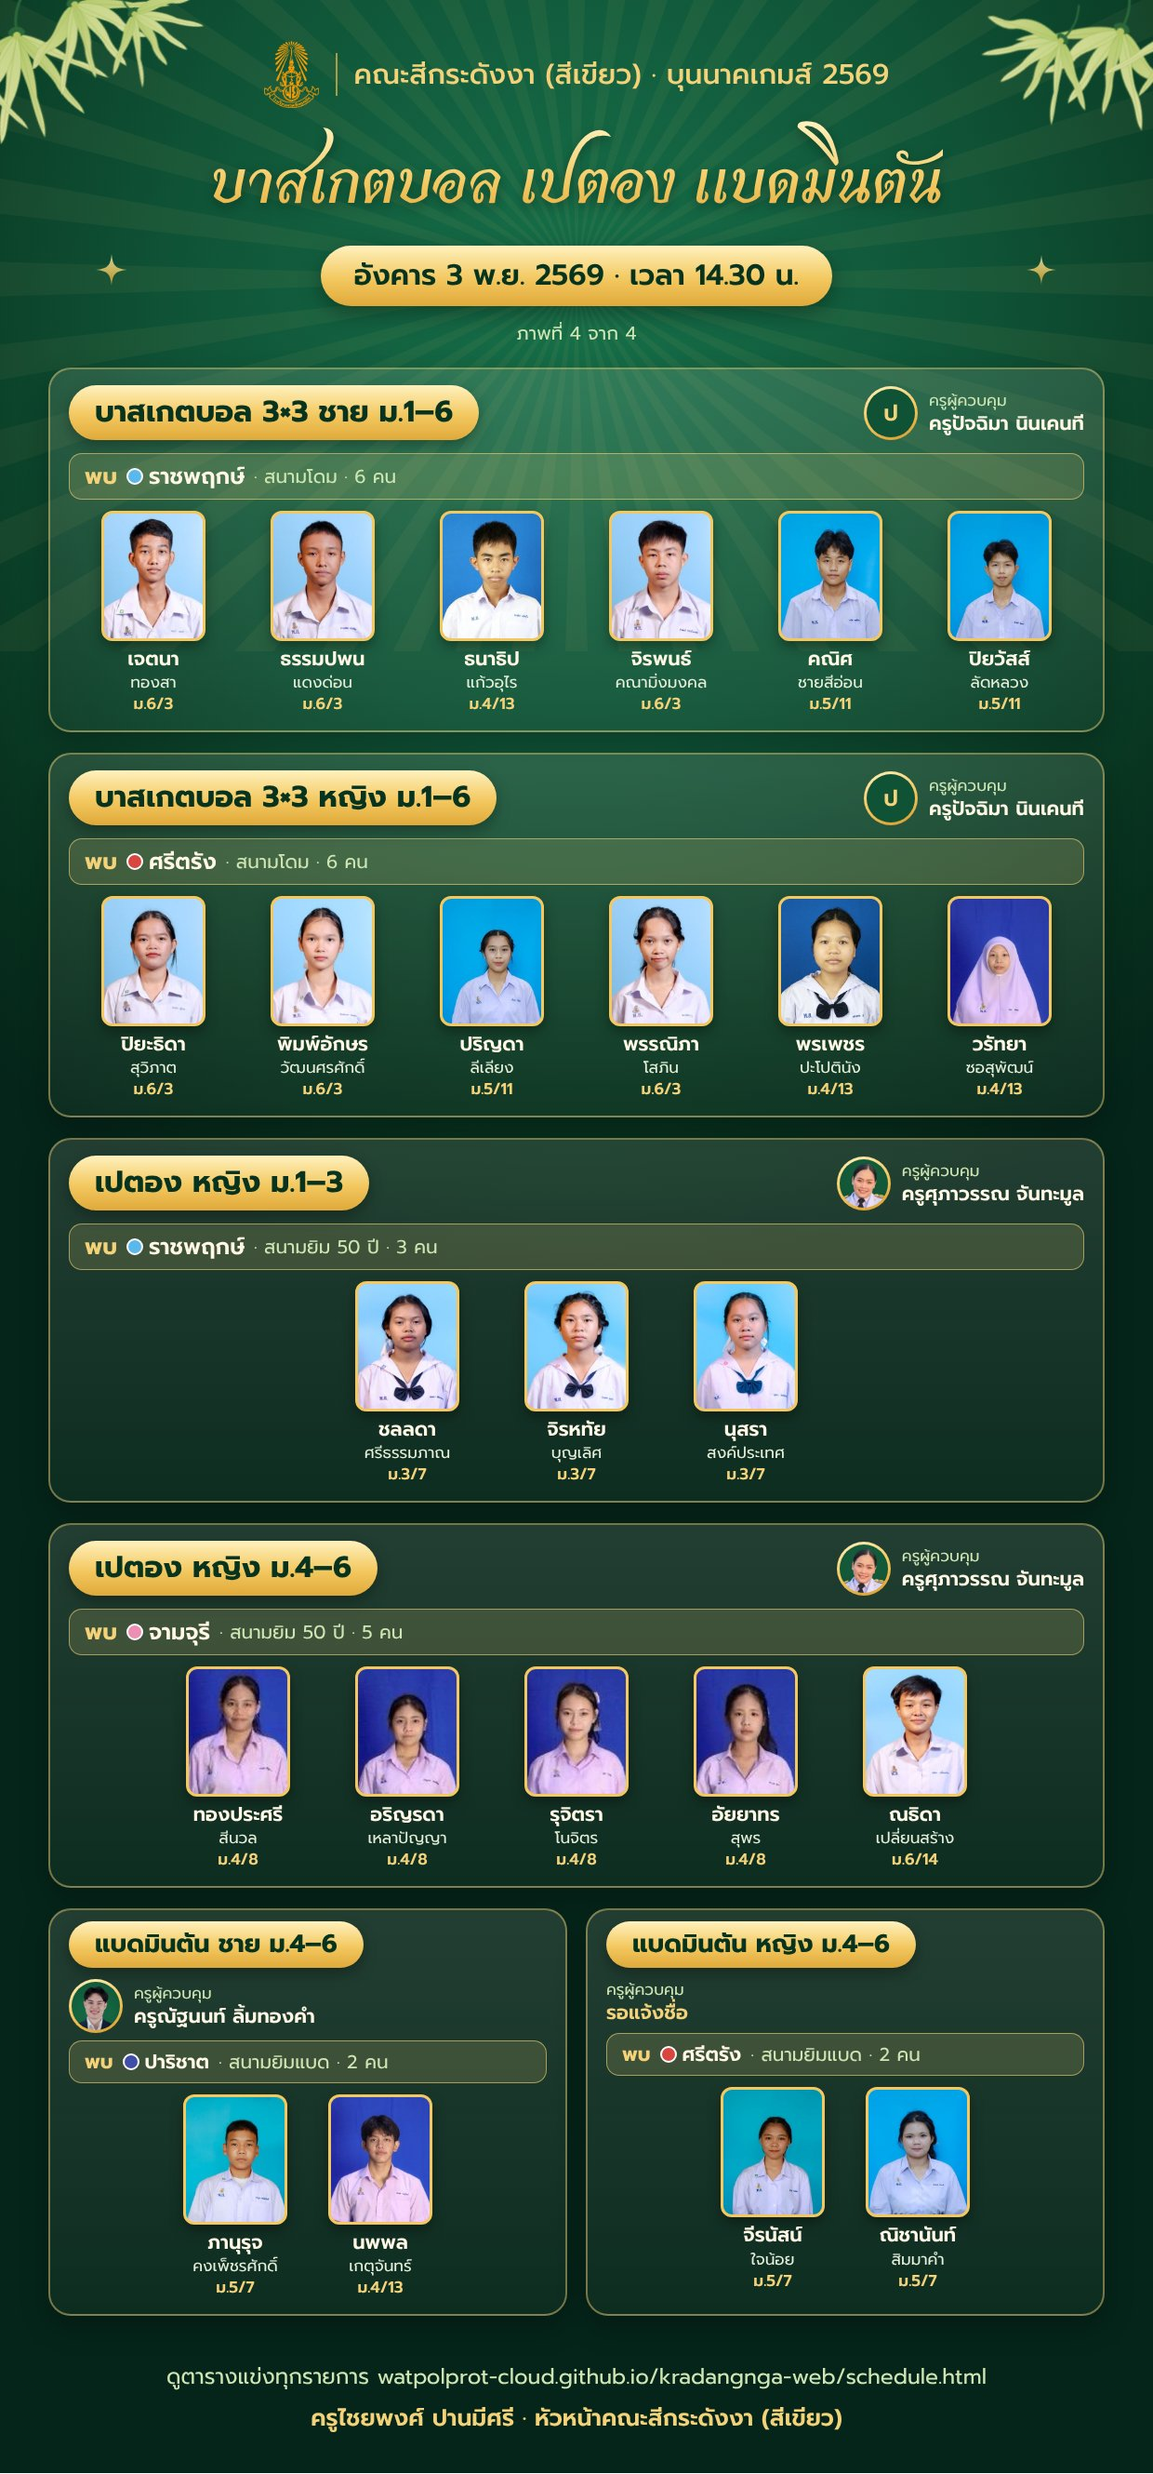
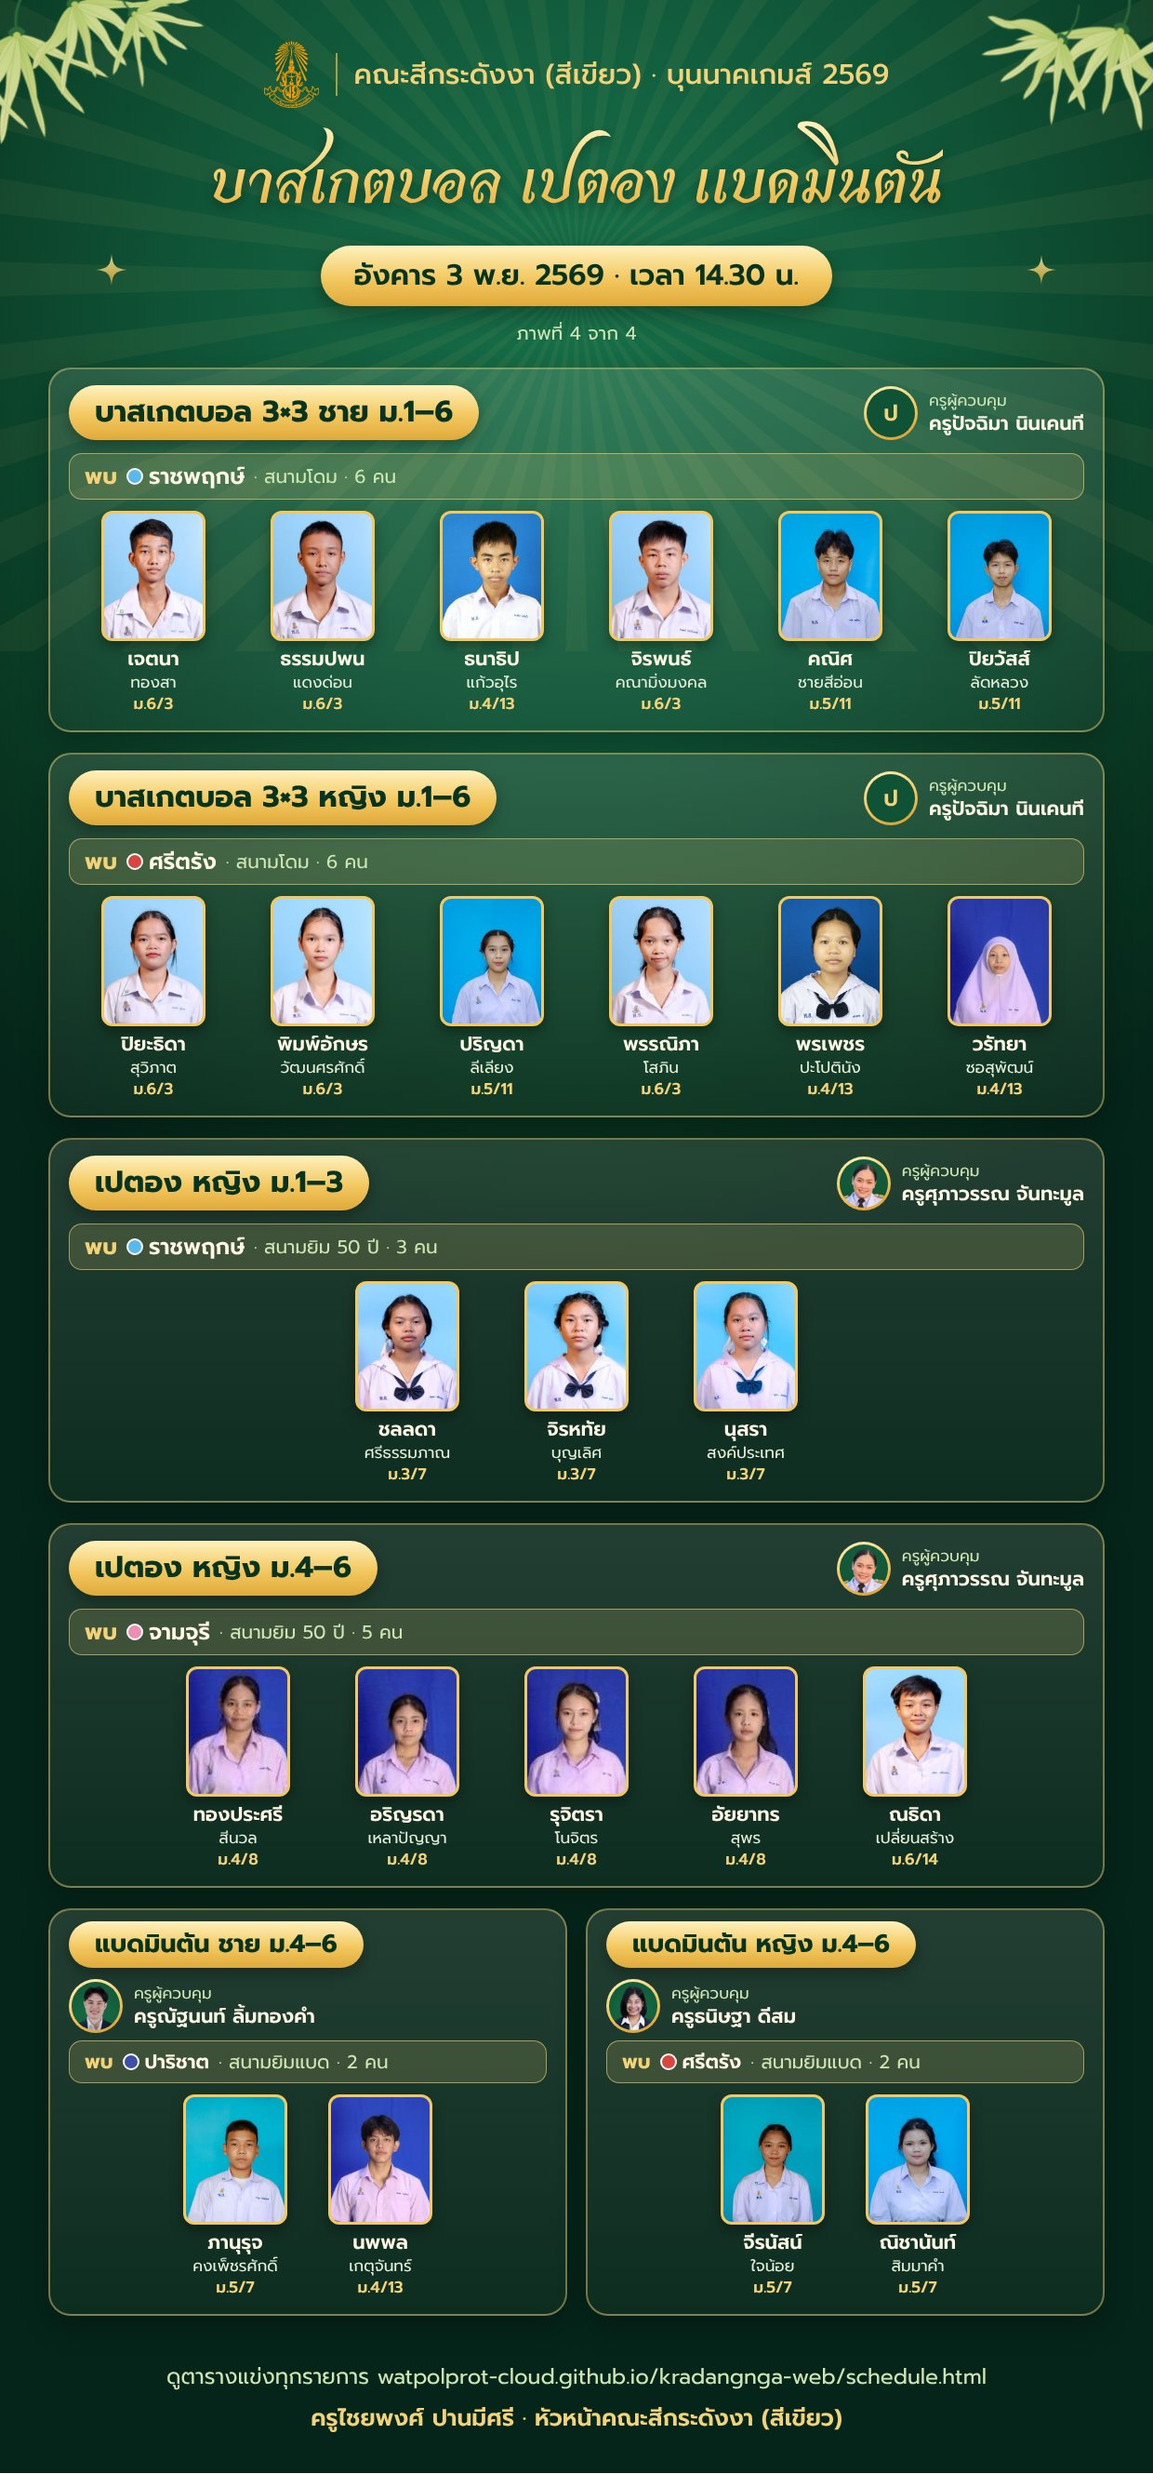
ครูผู้ควบคุมแบดมินตันหญิง ม.4–6 (ครูธนิษฐา) + ภาพ info 3 พ.ย. ฉบับแก้ไข 2
Claude-Session: https://claude.ai/code/session_01LjaNA52Jk9fgkbivbZznUW

Changed region(s): [[0.521, 0.7804, 0.95, 0.9364]]

diff --git a/data/news.js b/data/news.js
@@ -8,7 +8,7 @@ window.KD = window.KD || {};
 KD.news = [
   { date: "2026-11-02", type: "บุนนาคเกมส์", title: "พรุ่งนี้ 3 พ.ย. สีเขียวลงแข่ง 10 รายการ วอลเลย์บอล บาสเกตบอล 3×3 แชร์บอล เปตอง แบดมินตัน · พุธ 4 พ.ย. แข่งต่ออีก 8 รายการ", image: "news_match_2569-11-03.jpg",
     body: "ครูไชยพงศ์ ปานมีศรี หัวหน้าคณะสีกระดังงา (สีเขียว) แจ้งนักกีฬาและครูผู้ควบคุม พรุ่งนี้วันอังคารที่ 3 พฤศจิกายน 2569 เวลา 14.30 น. สีเขียวลงแข่งกีฬาภายในบุนนาคเกมส์ 2569 คู่ที่ 1 รวม 10 รายการ ที่โดม ได้แก่ วอลเลย์บอลชาย ม.1–6 พบจามจุรี วอลเลย์บอลหญิง ม.1–6 พบจามจุรี บาสเกตบอล 3×3 ชาย พบราชพฤกษ์ บาสเกตบอล 3×3 หญิง พบศรีตรัง แชร์บอลชาย ม.1–2 พบจามจุรี แชร์บอลหญิง ม.1–2 พบราชพฤกษ์ ที่ยิม 50 ปี เปตองหญิง ม.1–3 พบราชพฤกษ์ เปตองหญิง ม.4–6 พบจามจุรี และที่ยิมแบด แบดมินตันชาย ม.4–6 พบปาริชาต แบดมินตันหญิง ม.4–6 พบศรีตรัง ทีมที่ชนะได้ไปแข่งคู่ที่ 3 วันพุธที่ 11 พ.ย. 2569 ส่วนวันพุธที่ 4 พฤศจิกายน 2569 เวลา 14.30 น. แข่งต่ออีก 8 รายการ ได้แก่ ตะกร้อชาย ม.1–3 และ ม.4–6 เทเบิลเทนนิสชาย ม.4–6 และหญิง ม.1–3 เปตองชาย ม.1–3 และ ม.4–6 E-sport ROV และ Mobile Legends นักกีฬาเตรียมชุดกีฬาให้พร้อม รายงานตัวกับครูผู้ควบคุมที่สนามก่อนเวลาแข่ง ครูผู้ควบคุมพิมพ์ทะเบียนนักกีฬาที่มีลายเซ็นแม่สีจากหน้าทะเบียนนักกีฬาบนเว็บนำไปด้วย ดูรูปนักกีฬาทุกรายการได้ในภาพ info ทั้ง 4 ภาพ",
-    table: { summary: "ดูรายการแข่ง 3 และ 4 พ.ย. ครบทุกรายการ", head: ["วัน", "รายการ", "พบ", "สนาม", "ครูผู้ควบคุม", "นักกีฬา"], rows: [["อ. 3 พ.ย.", "วอลเลย์บอล ชาย ม.1–6", "จามจุรี (สีชมพู)", "โดม", "ครูมาริษา ปรัชชัยกูล และ ครูมนตรี ฉิมเจริญ", "12"], ["อ. 3 พ.ย.", "วอลเลย์บอล หญิง ม.1–6", "จามจุรี (สีชมพู)", "โดม", "ครูมาริษา ปรัชชัยกูล และ ครูมนตรี ฉิมเจริญ", "12"], ["อ. 3 พ.ย.", "บาสเกตบอล 3×3 ชาย ม.1–6", "ราชพฤกษ์ (สีฟ้า)", "โดม", "ครูปัจฉิมา นินเคนที", "6"], ["อ. 3 พ.ย.", "บาสเกตบอล 3×3 หญิง ม.1–6", "ศรีตรัง (สีแดง)", "โดม", "ครูปัจฉิมา นินเคนที", "6"], ["อ. 3 พ.ย.", "แชร์บอล ชาย ม.1–2", "จามจุรี (สีชมพู)", "โดม", "ครูนันทวัน ศรีทอง", "12"], ["อ. 3 พ.ย.", "แชร์บอล หญิง ม.1–2", "ราชพฤกษ์ (สีฟ้า)", "โดม", "ครูศักดิ์ชัย โชคบัณฑิต", "12"], ["อ. 3 พ.ย.", "เปตอง หญิง ม.1–3", "ราชพฤกษ์ (สีฟ้า)", "ยิม 50 ปี", "ครูศุภาวรรณ จันทะมูล", "3"], ["อ. 3 พ.ย.", "เปตอง หญิง ม.4–6", "จามจุรี (สีชมพู)", "ยิม 50 ปี", "ครูศุภาวรรณ จันทะมูล", "5"], ["อ. 3 พ.ย.", "แบดมินตัน ชาย ม.4–6", "ปาริชาต (สีน้ำเงิน)", "ยิมแบด", "ครูณัฐนนท์ ลิ้มทองคำ", "2"], ["อ. 3 พ.ย.", "แบดมินตัน หญิง ม.4–6", "ศรีตรัง (สีแดง)", "ยิมแบด", "รอแจ้ง", "2"], ["พ. 4 พ.ย.", "ตะกร้อ ชาย ม.1–3", "ศรีตรัง (สีแดง)", "โดม", "ครูกาญจณ์สุดา รัตนพร", "5"], ["พ. 4 พ.ย.", "ตะกร้อ ชาย ม.4–6", "ราชพฤกษ์ (สีฟ้า)", "โดม", "ครูลลิตา อินไชยา", "5"], ["พ. 4 พ.ย.", "เทเบิลเทนนิส ชาย ม.4–6", "จามจุรี (สีชมพู)", "ยิมแบด", "ครูมนัสวี อ้นสนกราน", "1"], ["พ. 4 พ.ย.", "เทเบิลเทนนิส หญิง ม.1–3", "จามจุรี (สีชมพู)", "ยิมแบด", "รอแจ้ง", "1"], ["พ. 4 พ.ย.", "เปตอง ชาย ม.1–3", "จามจุรี (สีชมพู)", "ยิม 50 ปี", "ครูศุภาวรรณ จันทะมูล", "5"], ["พ. 4 พ.ย.", "เปตอง ชาย ม.4–6", "ราชพฤกษ์ (สีฟ้า)", "ยิม 50 ปี", "ครูจุฬาลักษณ์ กุลบุตรดี", "4"], ["พ. 4 พ.ย.", "E-sport ROV", "ศรีตรัง (สีแดง)", "ห้องปฏิบัติการคอมพิวเตอร์ 1", "ครูภวภัค จินนุกูล", "7"], ["พ. 4 พ.ย.", "E-sport Mobile Legends", "จามจุรี (สีชมพู)", "ห้องปฏิบัติการคอมพิวเตอร์ 1", "ครูธวัชชัย พาลาศรี", "6"]] },
+    table: { summary: "ดูรายการแข่ง 3 และ 4 พ.ย. ครบทุกรายการ", head: ["วัน", "รายการ", "พบ", "สนาม", "ครูผู้ควบคุม", "นักกีฬา"], rows: [["อ. 3 พ.ย.", "วอลเลย์บอล ชาย ม.1–6", "จามจุรี (สีชมพู)", "โดม", "ครูมาริษา ปรัชชัยกูล และ ครูมนตรี ฉิมเจริญ", "12"], ["อ. 3 พ.ย.", "วอลเลย์บอล หญิง ม.1–6", "จามจุรี (สีชมพู)", "โดม", "ครูมาริษา ปรัชชัยกูล และ ครูมนตรี ฉิมเจริญ", "12"], ["อ. 3 พ.ย.", "บาสเกตบอล 3×3 ชาย ม.1–6", "ราชพฤกษ์ (สีฟ้า)", "โดม", "ครูปัจฉิมา นินเคนที", "6"], ["อ. 3 พ.ย.", "บาสเกตบอล 3×3 หญิง ม.1–6", "ศรีตรัง (สีแดง)", "โดม", "ครูปัจฉิมา นินเคนที", "6"], ["อ. 3 พ.ย.", "แชร์บอล ชาย ม.1–2", "จามจุรี (สีชมพู)", "โดม", "ครูนันทวัน ศรีทอง", "12"], ["อ. 3 พ.ย.", "แชร์บอล หญิง ม.1–2", "ราชพฤกษ์ (สีฟ้า)", "โดม", "ครูศักดิ์ชัย โชคบัณฑิต", "12"], ["อ. 3 พ.ย.", "เปตอง หญิง ม.1–3", "ราชพฤกษ์ (สีฟ้า)", "ยิม 50 ปี", "ครูศุภาวรรณ จันทะมูล", "3"], ["อ. 3 พ.ย.", "เปตอง หญิง ม.4–6", "จามจุรี (สีชมพู)", "ยิม 50 ปี", "ครูศุภาวรรณ จันทะมูล", "5"], ["อ. 3 พ.ย.", "แบดมินตัน ชาย ม.4–6", "ปาริชาต (สีน้ำเงิน)", "ยิมแบด", "ครูณัฐนนท์ ลิ้มทองคำ", "2"], ["อ. 3 พ.ย.", "แบดมินตัน หญิง ม.4–6", "ศรีตรัง (สีแดง)", "ยิมแบด", "ครูธนิษฐา ดีสม", "2"], ["พ. 4 พ.ย.", "ตะกร้อ ชาย ม.1–3", "ศรีตรัง (สีแดง)", "โดม", "ครูกาญจณ์สุดา รัตนพร", "5"], ["พ. 4 พ.ย.", "ตะกร้อ ชาย ม.4–6", "ราชพฤกษ์ (สีฟ้า)", "โดม", "ครูลลิตา อินไชยา", "5"], ["พ. 4 พ.ย.", "เทเบิลเทนนิส ชาย ม.4–6", "จามจุรี (สีชมพู)", "ยิมแบด", "ครูมนัสวี อ้นสนกราน", "1"], ["พ. 4 พ.ย.", "เทเบิลเทนนิส หญิง ม.1–3", "จามจุรี (สีชมพู)", "ยิมแบด", "รอแจ้ง", "1"], ["พ. 4 พ.ย.", "เปตอง ชาย ม.1–3", "จามจุรี (สีชมพู)", "ยิม 50 ปี", "ครูศุภาวรรณ จันทะมูล", "5"], ["พ. 4 พ.ย.", "เปตอง ชาย ม.4–6", "ราชพฤกษ์ (สีฟ้า)", "ยิม 50 ปี", "ครูจุฬาลักษณ์ กุลบุตรดี", "4"], ["พ. 4 พ.ย.", "E-sport ROV", "ศรีตรัง (สีแดง)", "ห้องปฏิบัติการคอมพิวเตอร์ 1", "ครูภวภัค จินนุกูล", "7"], ["พ. 4 พ.ย.", "E-sport Mobile Legends", "จามจุรี (สีชมพู)", "ห้องปฏิบัติการคอมพิวเตอร์ 1", "ครูธวัชชัย พาลาศรี", "6"]] },
     link: "assets/img/gallery/info_match_2569-11-03_1.jpg", linkText: "เปิดภาพ info รายการแข่ง 3 พ.ย. (ภาพรวม)", link2: "schedule.html", linkText2: "ดูตารางแข่งทุกรายการ" },
   { date: "2026-11-02", type: "บุนนาคเกมส์", title: "ขอบคุณและยินดีด้วย สีเขียวได้อันดับ 1 การเข้าแถวคณะสี วันจันทร์ที่ 2 พ.ย. 2569 ร่วมกับสีฟ้า", image: "news_lineup_result_2569-11-02_v2.jpg",
     body: "โรงเรียนประกาศผลการเข้าแถวคณะสี ประจำวันจันทร์ที่ 2 พฤศจิกายน 2569 คณะสีกระดังงา (สีเขียว) ได้อันดับ 1 ร่วมกับราชพฤกษ์ (สีฟ้า) อันดับ 2 ศรีตรัง (สีแดง) และอันดับ 3 ปาริชาติ (สีน้ำเงิน) กับจามจุรี (สีชมพู) ครูไชยพงศ์ ปานมีศรี หัวหน้าคณะสี ขอบคุณครูที่ปรึกษาทุกห้องที่ช่วยกำชับและดูแลแถว ครูเวรตรวจแถวที่มาทำหน้าที่ตั้งแต่เช้า และขอแสดงความยินดีกับนักเรียนสีเขียวทุกคนที่มาตรงเวลา นั่งแถวอย่างมีวินัย ร้องเพลงชาติพร้อมกัน และช่วยกันรักษาความสะอาด ขอให้รักษามาตรฐานนี้ไว้ทุกเช้า นั่งพร้อมในแถวภายใน 07.55 น. ไม่คุย ไม่กิน ร้องเพลงชาติ และไม่ทิ้งขยะ เพื่อคว้ารางวัลถ้วยวินัยบุนนาคเกมส์ ครั้งที่ 77 ไปด้วยกัน",

diff --git a/data/coaches.js b/data/coaches.js
@@ -1,4 +1,4 @@
-// ครูคณะสีกระดังงาผู้ควบคุมนักกีฬา บุนนาคเกมส์ 2569 (ข้อมูลจากพี่ต้น 22 ต.ค. 2569 · เพิ่มครูผู้ควบคุม Mobile Legends 26 ต.ค. 2569 · วันแข่งปรับตามตารางแข่งฉบับล่าสุด 2 พ.ย. 2569 · ครูผู้ควบคุมบาส 3×3 หญิง และเปตองหญิง 2 รุ่น จากพี่ต้น 2 พ.ย. 2569)
+// ครูคณะสีกระดังงาผู้ควบคุมนักกีฬา บุนนาคเกมส์ 2569 (ข้อมูลจากพี่ต้น 22 ต.ค. 2569 · เพิ่มครูผู้ควบคุม Mobile Legends 26 ต.ค. 2569 · วันแข่งปรับตามตารางแข่งฉบับล่าสุด 2 พ.ย. 2569 · ครูผู้ควบคุมบาส 3×3 หญิง เปตองหญิง 2 รุ่น และแบดมินตันหญิง ม.4–6 จากพี่ต้น 2 พ.ย. 2569)
 // coaches: รายการแข่งขัน -> ครูสีเขียวที่ดูแล (pending = จำนวนครูที่ยังรอประกาศชื่อ) · ชื่อครูต้องตรงกับ data/teachers.js เพื่อดึงรูป
 window.KD = window.KD || {};
 KD.coachMeta = {
@@ -95,5 +95,5 @@ KD.coaches = [
   {"no": 11, "sport": "แบดมินตัน", "div": "ชาย ม.1–3", "teachers": ["ครูธนิษฐา ดีสม"], "pending": 0},
   {"no": 11, "sport": "แบดมินตัน", "div": "หญิง ม.1–3", "teachers": [], "pending": 0},
   {"no": 11, "sport": "แบดมินตัน", "div": "ชาย ม.4–6", "teachers": ["ครูณัฐนนท์ ลิ้มทองคำ"], "pending": 0},
-  {"no": 11, "sport": "แบดมินตัน", "div": "หญิง ม.4–6", "teachers": [], "pending": 0}
+  {"no": 11, "sport": "แบดมินตัน", "div": "หญิง ม.4–6", "teachers": ["ครูธนิษฐา ดีสม"], "pending": 0}
 ];
